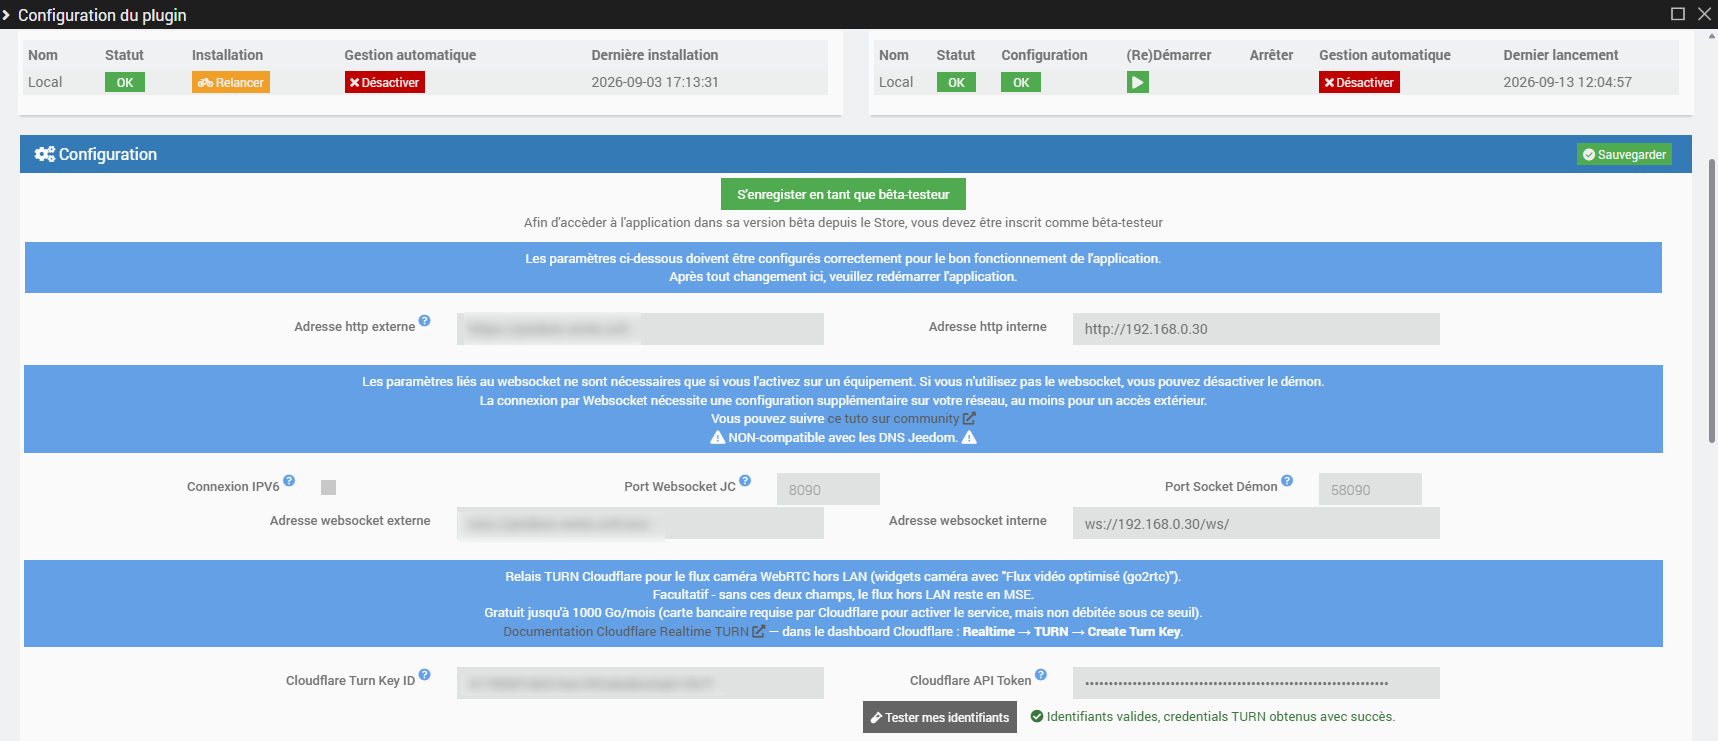
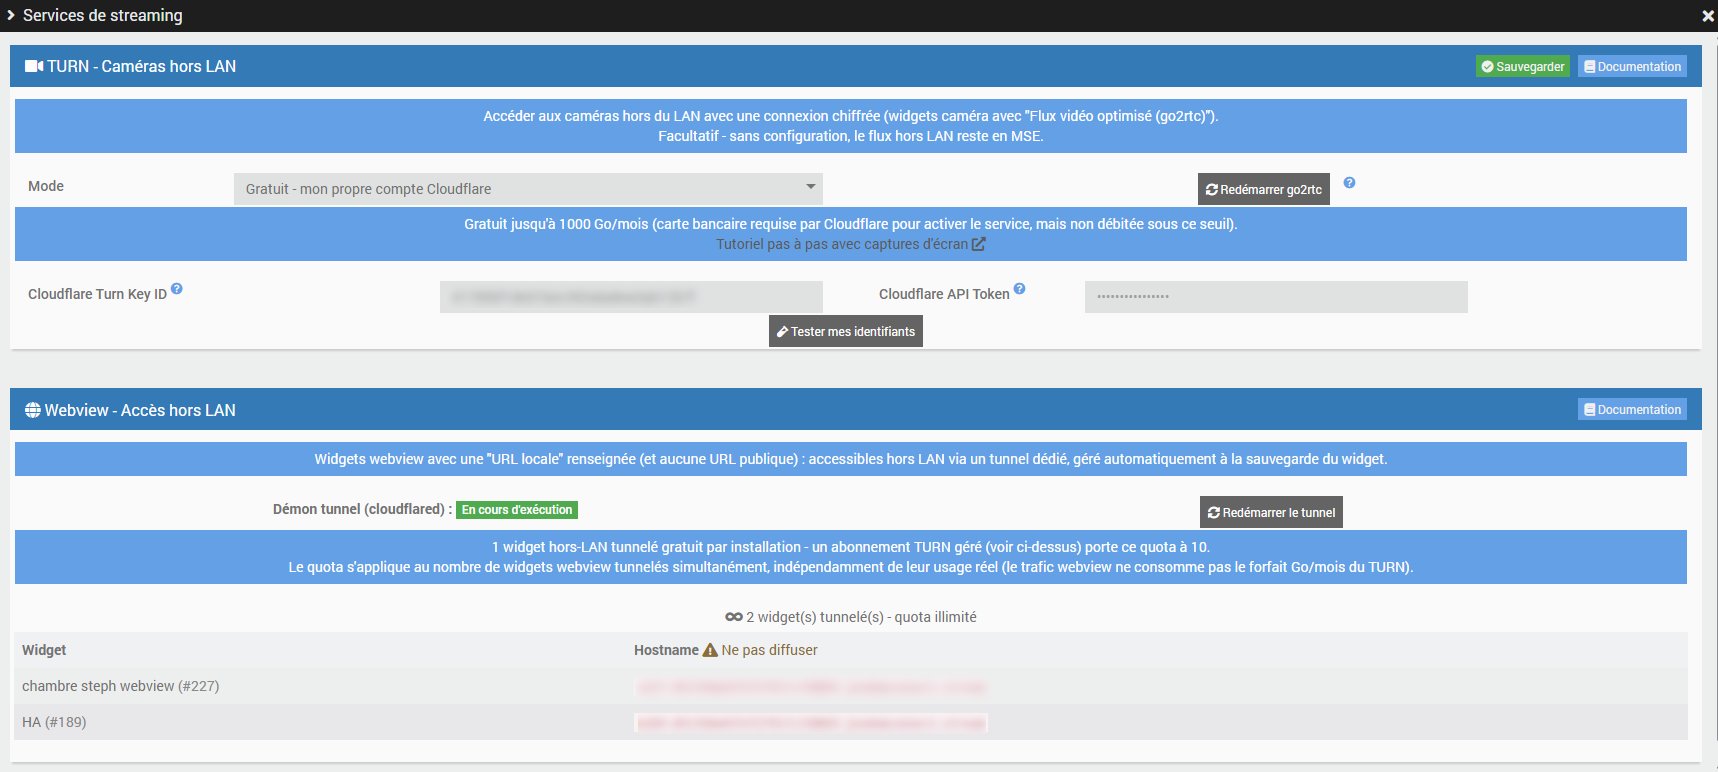
doc update

diff --git a/docs/documentation/integration/cameraTurn.md b/docs/documentation/integration/cameraTurn.md
@@ -6,7 +6,7 @@ sidebar_position: 6
 
 Les widgets caméra utilisant l'option **"Flux vidéo optimisé (go2rtc)"** peuvent afficher le flux vidéo en **WebRTC** (faible latence, quasi instantané) même lorsque vous consultez votre caméra depuis l'extérieur de votre réseau local. Pour que cela fonctionne hors LAN, un **relais TURN** est nécessaire : un service intermédiaire qui permet à votre téléphone et à votre Jeedom de se joindre malgré les box/routeurs qui bloquent les connexions entrantes directes.
 
-Cette configuration se trouve sur la page `Configuration` du plugin JeedomConnect, section **Relais TURN pour le flux caméra WebRTC hors LAN**.
+Cette configuration se trouve sur la page `Gestion` du plugin JeedomConnect, bouton **Services de streaming** (section TURN), et peut aussi être gérée directement depuis l'application mobile : **Préférences &gt; Caméras hors LAN**.
 
 :::info
 Cette configuration est **entièrement facultative**. Sans elle, vos caméras hors LAN continuent de fonctionner normalement, simplement avec un flux vidéo un peu moins réactif (mode MSE, sans relais).
@@ -18,15 +18,15 @@ Cette configuration est **entièrement facultative**. Sans elle, vos caméras ho
 |---|---|---|---|
 | **Pas de TURN configuré** | Gratuit | Aucun | Illimité (mode MSE, moins réactif) |
 | **Gratuit - mon propre compte Cloudflare** | Gratuit | Un compte Cloudflare (carte bancaire demandée, non débitée sous le seuil) | 1000 Go/mois |
-| **Payant - abonnement géré** | 6€/an | Aucun (licence envoyée par e-mail) | Essai : 4 Go/7 jours sans CB, puis 10 Go/mois |
+| **Payant - abonnement géré** | ~6€/an | Aucun (achat intégré App Store / Google Play) | Essai : 4 Go/7 jours sans CB, puis 10 Go/mois |
 
-Le choix se fait via le menu déroulant **Mode**, en haut de la section TURN.
+Le choix se fait via le sélecteur **Mode**, disponible aussi bien dans la modale **Services de streaming** du plugin (page Gestion) que dans l'application (Préférences &gt; Caméras hors LAN).
 
 ## Mode gratuit : votre propre compte Cloudflare
 
 Vous créez vous-même un compte Cloudflare (gratuit jusqu'à 1000 Go de données relayées par mois, largement suffisant pour un usage personnel) et renseignez votre **Turn Key ID** et votre **API Token** dans le plugin. Cloudflare demande une carte bancaire pour activer le service, mais elle n'est débitée que si vous dépassez ce palier gratuit.
 
-Un bouton **Tester mes identifiants** permet de vérifier que tout est correctement configuré avant de l'utiliser en conditions réelles.
+Un bouton **Tester l'accès** permet de vérifier que tout est correctement configuré avant de l'utiliser en conditions réelles.
 
 👉 Le pas-à-pas complet avec captures d'écran se trouve dans le [tutoriel dédié](../../tutorials/cloudflare_turn.md).
 
@@ -44,23 +44,29 @@ Une fois démarré, l'essai ne peut ni être mis en pause, ni être réinitialis
 
 ### Abonnement
 
-Passé l'essai (ou pour s'abonner directement), un abonnement à **6€/an** donne accès à **10 Go/mois**, sans limite de durée. L'abonnement se souscrit via le lien **S'abonner** de la section, qui vous redirige vers la boutique en ligne (Lemon Squeezy). Une **clé de licence** vous est envoyée par e-mail après paiement : renseignez-la dans le champ **Clé de licence**, sauvegardez la page, puis cliquez sur **Activer ma licence**.
+Passé l'essai (ou pour s'abonner directement), un abonnement à **~6€/an** donne accès à **10 Go/mois**, sans limite de durée. Contrairement à l'essai gratuit (qui se démarre depuis le plugin), l'abonnement s'achète et se gère **depuis l'application mobile** : **Préférences &gt; Caméras hors LAN &gt; S'abonner** - un achat intégré classique (App Store sur iOS, Google Play sur Android), sans clé à saisir nulle part. L'abonnement est rattaché à votre installation Jeedom (pas à votre téléphone) : une fois souscrit, tous les appareils connectés à cette même box en bénéficient.
 
-Un bouton **Tester ma licence** (ou l'essai en cours) permet de vérifier à tout moment que tout fonctionne.
+Si vous changez de téléphone ou réinstallez l'application, le bouton **Restaurer mes achats** (même écran) permet de récupérer un abonnement déjà payé sans repayer.
+
+:::tip
+Ce même abonnement augmente aussi le quota de widgets [Web View accessibles hors LAN via tunnel](./webviewTunnel.md) (1 → 10 widgets) - même s'il est présenté ici pour les caméras.
+:::
+
+Un bouton **Tester l'accès** (ou l'essai en cours) permet de vérifier à tout moment que tout fonctionne - disponible à la fois dans le plugin et dans l'application.
 
 ### Suivi de consommation
 
-Une fois l'essai démarré ou la licence activée, un encart affiche en temps réel :
+Une fois l'essai démarré ou l'abonnement actif, un encart affiche en temps réel (dans le plugin comme dans l'application) :
 
 - le nombre de jours restants (essai) ou le mois en cours (abonnement)
 - la consommation réelle en Go, par rapport au quota (4 Go pour l'essai, 10 Go/mois pour l'abonnement)
 
-### Quota dépassé ou licence invalide
+### Quota dépassé ou abonnement inactif
 
-Si le quota est atteint, si l'essai est terminé, ou si la licence n'est plus valide (abonnement expiré ou résilié), l'accès au mode payant est **automatiquement bloqué** : les caméras hors LAN ne pourront plus se connecter via ce relais tant que la situation n'est pas corrigée (renouvellement, nouvelle licence, ou attente du mois suivant pour un abonnement actif).
+Si le quota est atteint, si l'essai est terminé, ou si l'abonnement n'est plus actif (résilié, expiré, ou paiement refusé), l'accès au mode payant est **automatiquement bloqué** : les caméras hors LAN ne pourront plus se connecter via ce relais tant que la situation n'est pas corrigée (renouvellement, nouvel abonnement, ou attente du mois suivant pour un abonnement actif).
 
 Dans ce cas, un message apparaît dans le **centre de messages de Jeedom** (l'icône en forme de cloche dans le bandeau Jeedom) pour vous prévenir de la raison exacte. Ce message disparaît automatiquement dès que la situation est corrigée.
 
 ## Redémarrer go2rtc
 
-go2rtc (le composant qui gère les flux vidéo) n'est pas le démon principal du plugin et n'apparaît donc pas sur la page équipement avec les contrôles habituels de démon Jeedom. Un bouton **Redémarrer go2rtc**, situé à côté du sélecteur de **Mode**, permet de le relancer manuellement - notamment nécessaire après un changement de mode TURN pour que le nouveau relais soit pris en compte.
+go2rtc (le composant qui gère les flux vidéo) n'est pas le démon principal du plugin et n'apparaît donc pas sur la page équipement avec les contrôles habituels de démon Jeedom. Un bouton **Redémarrer go2rtc** - disponible à la fois à côté du sélecteur de **Mode** dans le plugin, et dans l'écran Caméras hors LAN de l'application - permet de le relancer manuellement, notamment nécessaire après un changement de mode TURN pour que le nouveau relais soit pris en compte.

diff --git a/docs/documentation/integration/webviewTunnel.md b/docs/documentation/integration/webviewTunnel.md
@@ -1,0 +1,50 @@
+---
+id: webviewTunnel
+title: Web View hors LAN (tunnel)
+sidebar_position: 7
+---
+
+Le widget **Web View** permet d'afficher n'importe quelle page web (design, dashboard, ou interface d'un autre service comme Zigbee2MQTT, Frigate, une caméra IP...) directement dans l'application. Lorsque cette page n'est accessible que depuis votre réseau local (champ **URL locale**), JeedomConnect peut créer automatiquement un **tunnel** pour la rendre également accessible hors de votre domicile, sans aucune configuration réseau de votre part (pas de redirection de port, pas de nom de domaine personnel).
+
+:::info
+Cette fonctionnalité est **entièrement automatique et facultative**. Elle se déclenche dès qu'un widget Web View possède une **URL locale** renseignée, et que les champs **URL** et **Commande URL** sont vides. Aucun compte à créer, contrairement au relais TURN caméra.
+:::
+
+## Fonctionnement
+
+Contrairement à l'ancien système de proxy (réécriture de page à la volée), JeedomConnect utilise ici un **vrai tunnel réseau** ([Cloudflare Tunnel](https://www.cloudflare.com/products/tunnel/)) : votre appareil communique directement avec la page cible via l'edge Cloudflare, comme s'il était sur votre réseau local. Cela permet de faire fonctionner nativement des pages plus complexes (WebSocket, Server-Sent Events, routage par chemin...) qui ne fonctionnaient pas de façon fiable avec l'ancienne méthode.
+
+Dès l'enregistrement d'un widget concerné, un nom d'hôte public unique lui est attribué, et un petit démon (`cloudflared`) est installé puis démarré automatiquement sur votre Jeedom pour établir la liaison. Vous n'avez rien à faire de plus : le widget utilisera automatiquement la bonne adresse selon que vous êtes sur le réseau local ou non.
+
+:::caution
+Si votre widget affiche une page vide ou une erreur hors LAN alors que l'**URL locale** est bien renseignée, vérifiez que ce champ contient bien l'adresse et non le champ **URL** (celui-ci est réservé à l'ID d'un design, au mot-clé `dashboard`, ou à une URL déjà accessible depuis l'extérieur).
+:::
+
+## Quota
+
+Comme pour le relais TURN caméra, ce service est hébergé par le développeur de JeedomConnect et donc soumis à un quota, par installation Jeedom :
+
+| | Widgets tunnelés |
+|---|---|
+| **Sans abonnement** | 1 |
+| **Avec abonnement TURN géré actif** (ou essai en cours) | 10 |
+
+Si vous atteignez ce quota, l'enregistrement d'un nouveau widget hors LAN échoue (un message d'erreur l'indique dans le plugin). Pour libérer un emplacement, videz le champ **URL locale** d'un widget existant (ou supprimez-le). Pour augmenter le quota à 10, un [abonnement au service TURN géré](./cameraTurn.md) suffit - même s'il est initialement destiné aux caméras, il augmente aussi ce quota.
+
+:::caution Quota qui diminue (fin d'essai, résiliation)
+Si votre quota redescend (essai TURN terminé sans abonnement, résiliation...) et que vous avez plus de widgets tunnelés que ce nouveau quota ne le permet, les widgets **excédentaires sont automatiquement désactivés** (hostname libéré) - les plus récemment activés en premier, les plus anciens sont conservés en priorité. Ce contrôle s'effectue périodiquement en arrière-plan, pas instantanément à la minute où l'abonnement expire.
+:::
+
+### Réactiver un widget après un changement de quota
+
+Si vous vous abonnez (ou démarrez l'essai) après avoir été bloqué par le quota, **une simple sauvegarde du widget concerné suffit** à retenter l'enregistrement automatiquement - inutile de retoucher l'**URL locale**.
+
+En revanche, si un widget était déjà tunnelé avec succès puis a été désactivé par le mécanisme ci-dessus (quota redescendu entre-temps), le plugin ne peut pas savoir spontanément que son tunnel a été coupé côté serveur : une sauvegarde sans rien changer ne relance donc pas l'enregistrement dans ce cas précis. Il faut alors modifier légèrement puis valider à nouveau le champ **URL locale** (par exemple ajouter puis retirer un caractère) pour forcer la reprise.
+
+## Gestion depuis le plugin
+
+Rendez-vous sur la page `Gestion` du plugin JeedomConnect, puis cliquez sur **Services de streaming**, section **Webview - Accès hors LAN**. Vous y trouverez :
+
+- Le statut du démon `cloudflared` et un bouton pour le redémarrer si besoin
+- Votre quota actuel (nombre de widgets tunnelés / quota total)
+- La liste des widgets actuellement tunnelés, avec leur nom et leur nom d'hôte public

diff --git a/docs/tutorials/cloudflare_turn.md b/docs/tutorials/cloudflare_turn.md
@@ -71,7 +71,7 @@ Le **Jeton d'API** n'est affiché **qu'une seule fois**, à cet instant. Copiez-
 
 ## Étape 5 - Renseigner les identifiants dans JeedomConnect
 
-Rendez-vous sur la page `Configuration` du plugin JeedomConnect, jusqu'à la section décrivant le relais TURN Cloudflare :
+Rendez-vous sur la page `Gestion` du plugin JeedomConnect, cliquez sur **Services de streaming**, jusqu'à la section décrivant le relais TURN Cloudflare :
 
 <img src="../../img/tutorials/cloudflare_turn_8.png" width="80%" />
 
